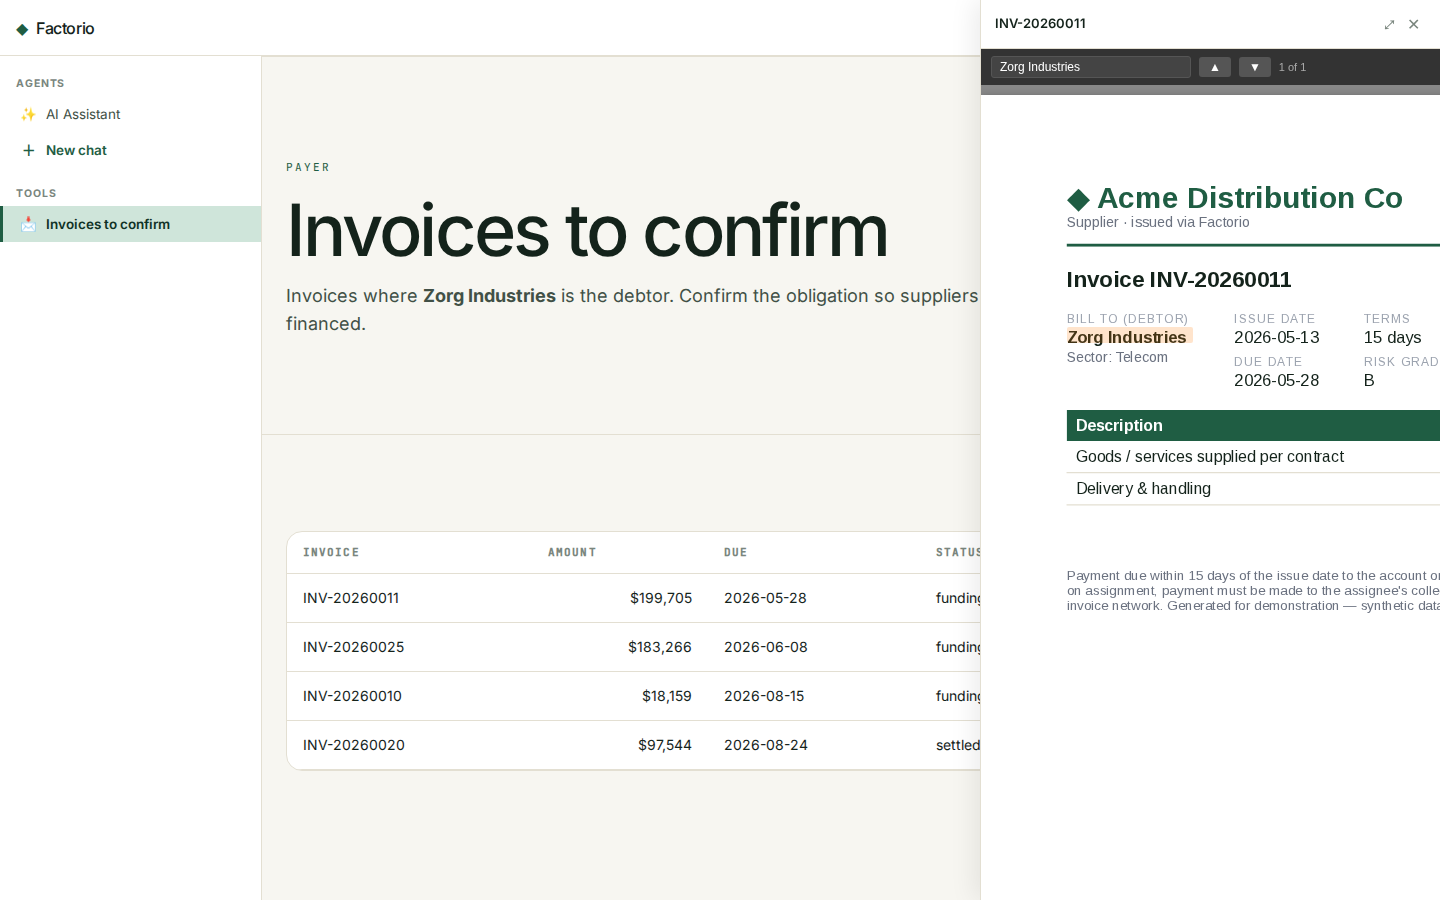
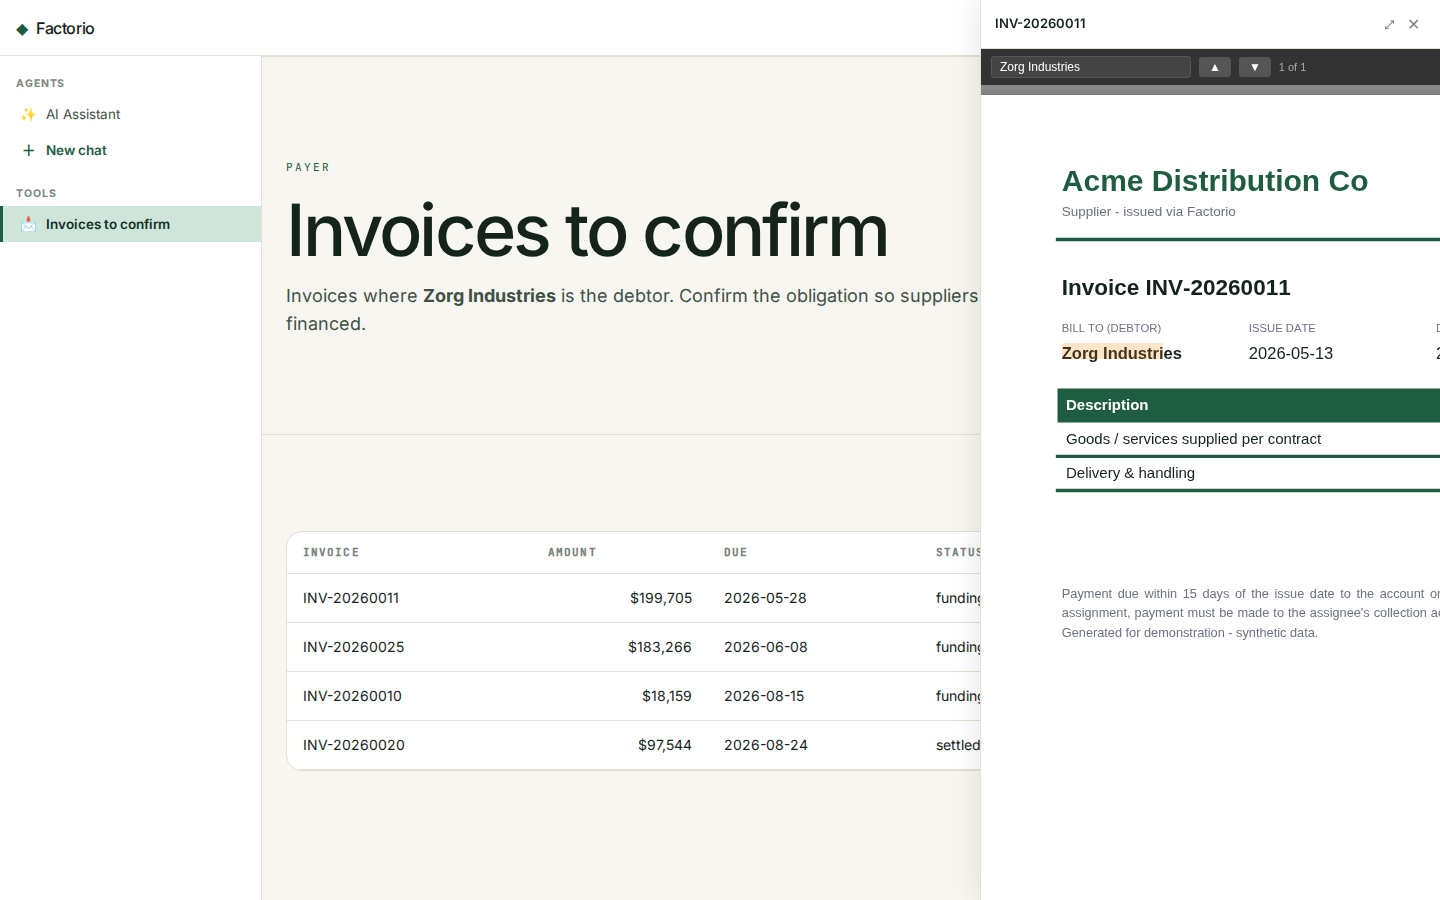
invoice PDF: switch to fpdf2 (container-safe, no system deps)
WeasyPrint needs system libs absent from the prod image, so invoice PDFs 500'd
in production. Replace with fpdf2 (pure-Python) — add to requirements.txt,
render a clean invoice (header, debtor/date meta, line items, total, terms).
Refresh supplier/payer PDF screenshots + home GIF.

Claude-Session: https://claude.ai/code/session_01DiQSZ7DvSCggEHP3TCTVK6

Changed region(s): [[0.7188, 0.1867, 1.0, 0.56], [0.7188, 0.6222, 1.0, 0.7156]]

diff --git a/app_routes/pdf_viewer.py b/app_routes/pdf_viewer.py
@@ -51,58 +51,81 @@ def pdfjs_asset(fname: str):
                     headers={"Cache-Control": "public, max-age=86400"})
 
 
-def _money(amount, currency="USD") -> str:
-    from utils.money import fmt_money
-    return fmt_money(amount)
+def _s(x) -> str:
+    """Sanitise to latin-1 for fpdf2 core fonts."""
+    return str(x if x is not None else "").encode("latin-1", "replace").decode("latin-1")
 
 
-def _invoice_html(r: dict) -> str:
+def _invoice_pdf_bytes(r: dict) -> bytes:
+    """Render a clean invoice PDF with fpdf2 (pure-Python — no system deps)."""
+    from fpdf import FPDF
     from utils.money import fmt_money
+
     face = float(r["amount"] or 0)
-    # a couple of synthetic line items that sum to the face value
+    seller = _s(r.get("seller_company") or "Supplier Ltd")
+    num = _s(r["invoice_number"])
+    debtor = _s(r["debtor_name"])
+    terms = r.get("payment_terms_days") or 60
     li = [("Goods / services supplied per contract", round(face * 0.82, 2)),
           ("Delivery & handling", round(face * 0.18, 2))]
-    rows = "".join(
-        f"<tr><td>{desc}</td><td class='r'>1</td><td class='r'>{fmt_money(amt)}</td>"
-        f"<td class='r'>{fmt_money(amt)}</td></tr>" for desc, amt in li)
-    seller = r.get("seller_company") or "Supplier Ltd"
-    issue = r.get("issue_date"); due = r.get("due_date")
-    return f"""<!doctype html><html><head><meta charset="utf-8"><style>
-@page {{ size: A4; margin: 1.8cm; }}
-body {{ font-family: Inter, Arial, sans-serif; color:#14231B; font-size:11pt; }}
-.top {{ display:flex; justify-content:space-between; align-items:flex-start; border-bottom:3px solid #1F5D43; padding-bottom:12px; }}
-.brand {{ font-size:20pt; font-weight:700; color:#1F5D43; }}
-.muted {{ color:#6b7280; font-size:9.5pt; }}
-h1 {{ font-size:15pt; margin:18px 0 4px; }}
-.grid {{ display:flex; gap:40px; margin:16px 0; }}
-.grid div p {{ margin:2px 0; }}
-.lbl {{ font-size:8pt; letter-spacing:1px; text-transform:uppercase; color:#9ca3af; }}
-table {{ width:100%; border-collapse:collapse; margin-top:14px; font-size:10.5pt; }}
-th {{ background:#1F5D43; color:#fff; text-align:left; padding:6px 8px; }}
-td {{ padding:6px 8px; border-bottom:1px solid #E3DFD2; }}
-td.r, th.r {{ text-align:right; }}
-.total {{ text-align:right; margin-top:10px; font-size:13pt; font-weight:700; color:#1F5D43; }}
-.terms {{ margin-top:26px; font-size:9pt; color:#6b7280; }}
-</style></head><body>
-<div class="top">
-  <div><div class="brand">◆ {seller}</div><div class="muted">Supplier · issued via Factorio</div></div>
-  <div style="text-align:right"><div class="muted">INVOICE</div><div style="font-size:13pt;font-weight:700">{r['invoice_number']}</div></div>
-</div>
-<h1>Invoice {r['invoice_number']}</h1>
-<div class="grid">
-  <div><p class="lbl">Bill to (debtor)</p><p style="font-weight:600">{r['debtor_name']}</p>
-       <p class="muted">Sector: {(r.get('sector') or '—').title()}</p></div>
-  <div><p class="lbl">Issue date</p><p>{issue}</p><p class="lbl" style="margin-top:8px">Due date</p><p>{due}</p></div>
-  <div><p class="lbl">Terms</p><p>{r.get('payment_terms_days') or 60} days</p>
-       <p class="lbl" style="margin-top:8px">Risk grade</p><p>{r.get('risk_grade') or 'B'}</p></div>
-</div>
-<table><thead><tr><th>Description</th><th class="r">Qty</th><th class="r">Unit</th><th class="r">Amount</th></tr></thead>
-<tbody>{rows}</tbody></table>
-<div class="total">Total due: {fmt_money(face)}</div>
-<p class="terms">Payment due within {r.get('payment_terms_days') or 60} days of the issue date to the account on file.
-This invoice may be assigned to a financing party; on assignment, payment must be made to the assignee's collection account.
-Buyer-confirmed on the SoliqOnline e-invoice network. Generated for demonstration — synthetic data.</p>
-</body></html>"""
+
+    GREEN, GREY, INK = (31, 93, 67), (107, 114, 128), (20, 35, 27)
+    p = FPDF(format="A4")
+    p.set_auto_page_break(True, 18)
+    p.add_page()
+    p.set_margins(18, 16, 18)
+
+    # header (row 1: seller + INVOICE, row 2: subtitle + number)
+    p.set_font("Helvetica", "B", 20); p.set_text_color(*GREEN)
+    p.cell(120, 9, seller)
+    p.set_font("Helvetica", "", 9); p.set_text_color(*GREY)
+    p.cell(0, 9, "INVOICE", align="R", new_x="LMARGIN", new_y="NEXT")
+    p.set_font("Helvetica", "", 9); p.set_text_color(*GREY)
+    p.cell(120, 5, "Supplier - issued via Factorio")
+    p.set_font("Helvetica", "B", 12); p.set_text_color(*INK)
+    p.cell(0, 5, num, align="R", new_x="LMARGIN", new_y="NEXT")
+    p.ln(4); p.set_draw_color(*GREEN); p.set_line_width(0.8)
+    p.line(18, p.get_y(), 192, p.get_y()); p.ln(7)
+
+    p.set_font("Helvetica", "B", 15); p.set_text_color(*INK)
+    p.cell(0, 9, f"Invoice {num}", new_x="LMARGIN", new_y="NEXT"); p.ln(3)
+
+    # meta row (four columns)
+    cols = [("BILL TO (DEBTOR)", debtor), ("ISSUE DATE", _s(r.get("issue_date"))),
+            ("DUE DATE", _s(r.get("due_date"))), ("TERMS", f"{terms} days")]
+    y = p.get_y()
+    for i, (lbl, val) in enumerate(cols):
+        x = 18 + i * 44
+        p.set_xy(x, y); p.set_font("Helvetica", "", 7.5); p.set_text_color(*GREY)
+        p.cell(44, 4, lbl)
+        p.set_xy(x, y + 5); p.set_font("Helvetica", "B" if i == 0 else "", 11); p.set_text_color(*INK)
+        p.cell(44, 6, val)
+    p.set_y(y + 16)
+
+    # line-item table
+    p.set_fill_color(*GREEN); p.set_text_color(255, 255, 255); p.set_font("Helvetica", "B", 10)
+    p.cell(96, 8, " Description", fill=True)
+    p.cell(20, 8, "Qty", align="C", fill=True)
+    p.cell(29, 8, "Unit", align="R", fill=True)
+    p.cell(29, 8, "Amount ", align="R", fill=True, new_x="LMARGIN", new_y="NEXT")
+    p.set_text_color(*INK); p.set_font("Helvetica", "", 10)
+    for desc, amt in li:
+        p.cell(96, 8, " " + _s(desc), border="B")
+        p.cell(20, 8, "1", align="C", border="B")
+        p.cell(29, 8, fmt_money(amt), align="R", border="B")
+        p.cell(29, 8, fmt_money(amt) + " ", align="R", border="B", new_x="LMARGIN", new_y="NEXT")
+    p.ln(4)
+    p.set_font("Helvetica", "B", 13); p.set_text_color(*GREEN)
+    p.cell(0, 8, f"Total due: {fmt_money(face)}", align="R", new_x="LMARGIN", new_y="NEXT")
+
+    p.ln(10); p.set_font("Helvetica", "", 8.5); p.set_text_color(*GREY)
+    p.multi_cell(0, 4.6,
+        f"Payment due within {terms} days of the issue date to the account on file. This invoice may be "
+        "assigned to a financing party; on assignment, payment must be made to the assignee's collection "
+        "account. Buyer-confirmed on the SoliqOnline e-invoice network. Generated for demonstration - "
+        "synthetic data.")
+    out = p.output()
+    return bytes(out)
 
 
 @rt("/app/invoice-pdf/{invoice_number}")
@@ -123,8 +146,7 @@ def invoice_pdf(req, invoice_number: str):
         if not r:
             return Response("invoice not found", status_code=404)
         try:
-            from weasyprint import HTML
-            data = HTML(string=_invoice_html(r)).write_pdf()
+            data = _invoice_pdf_bytes(r)
         except Exception as e:  # noqa: BLE001
             return Response(f"pdf error: {e}", status_code=500)
         _pdf_cache[invoice_number] = data